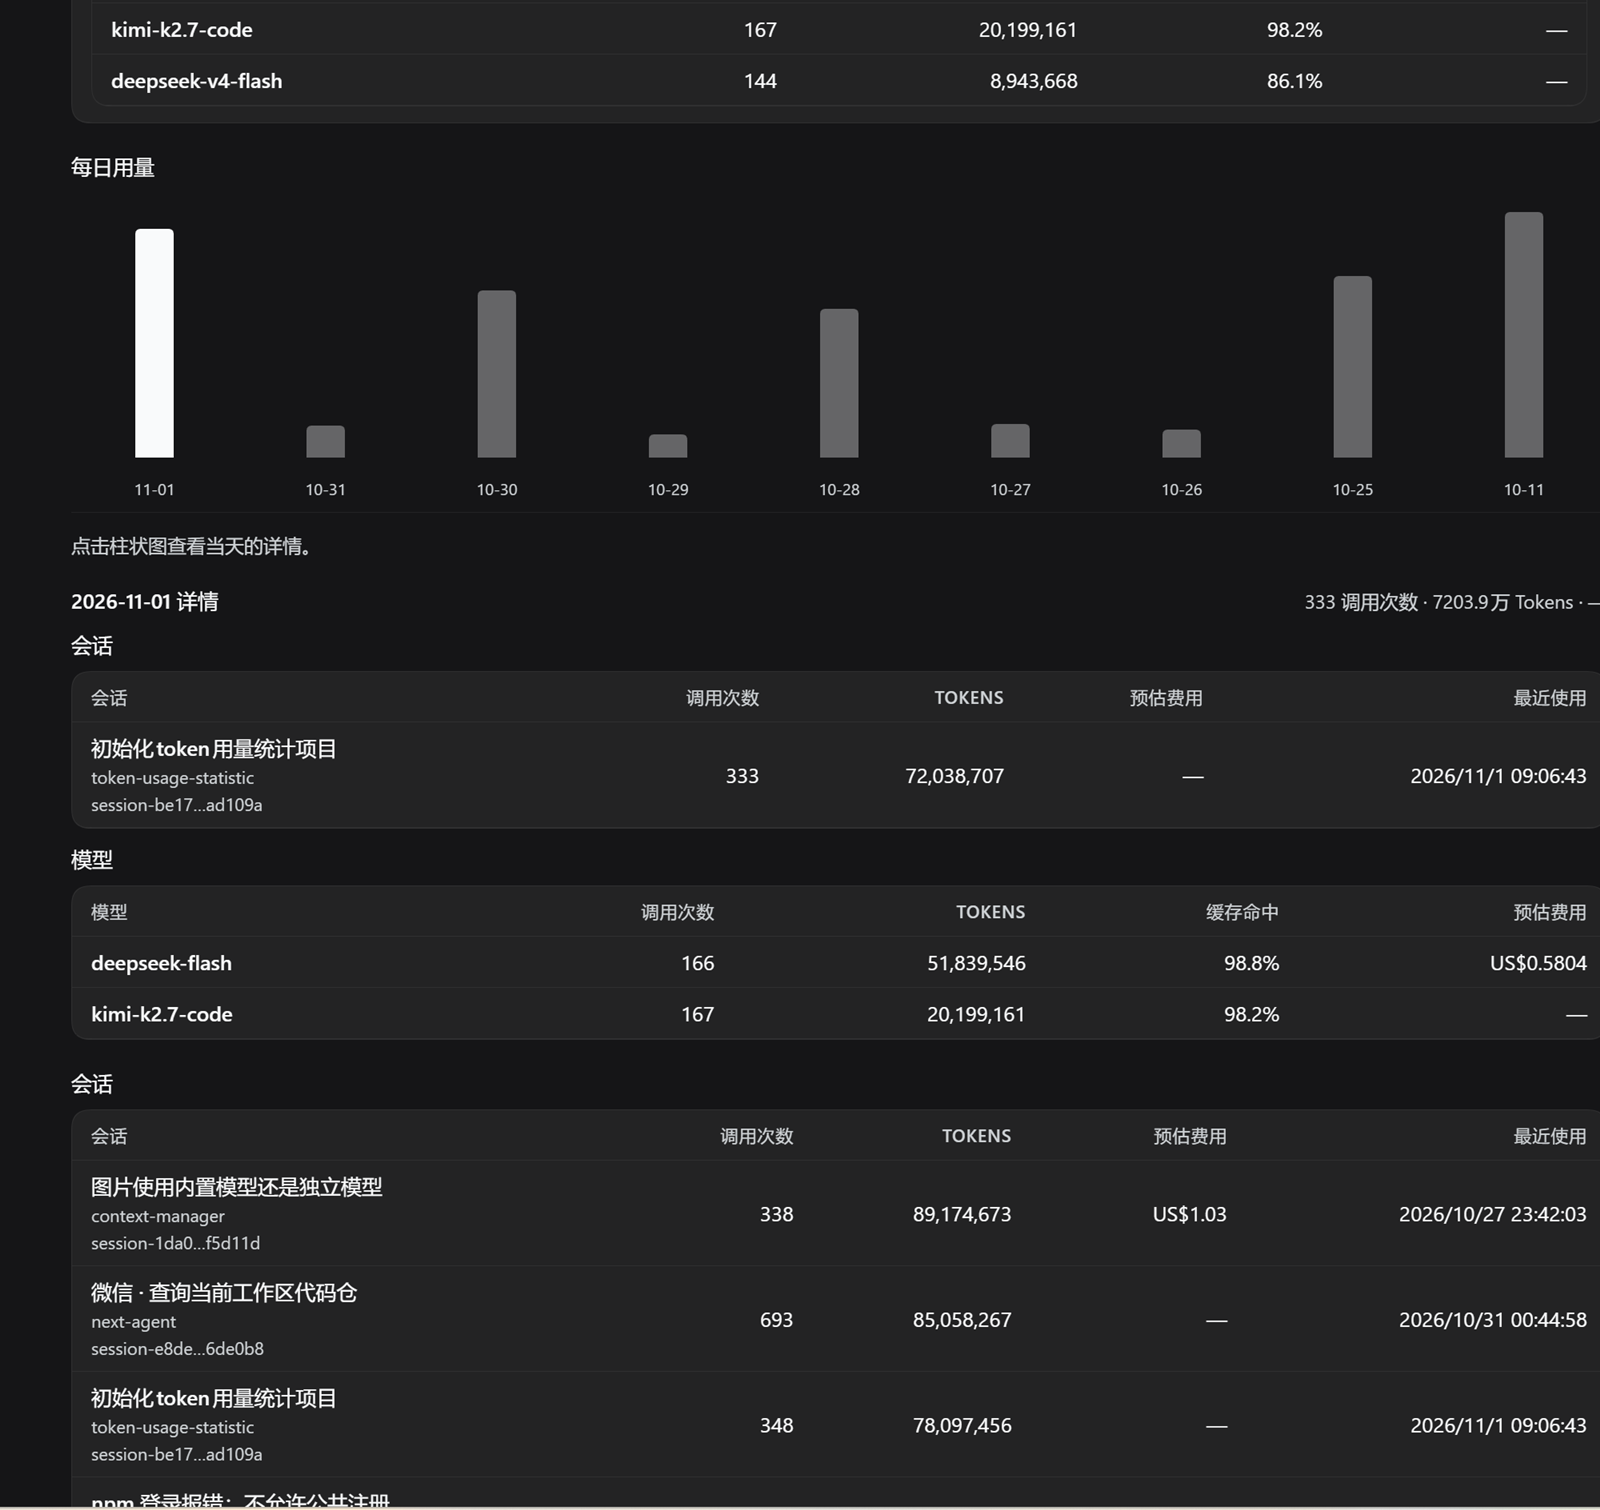
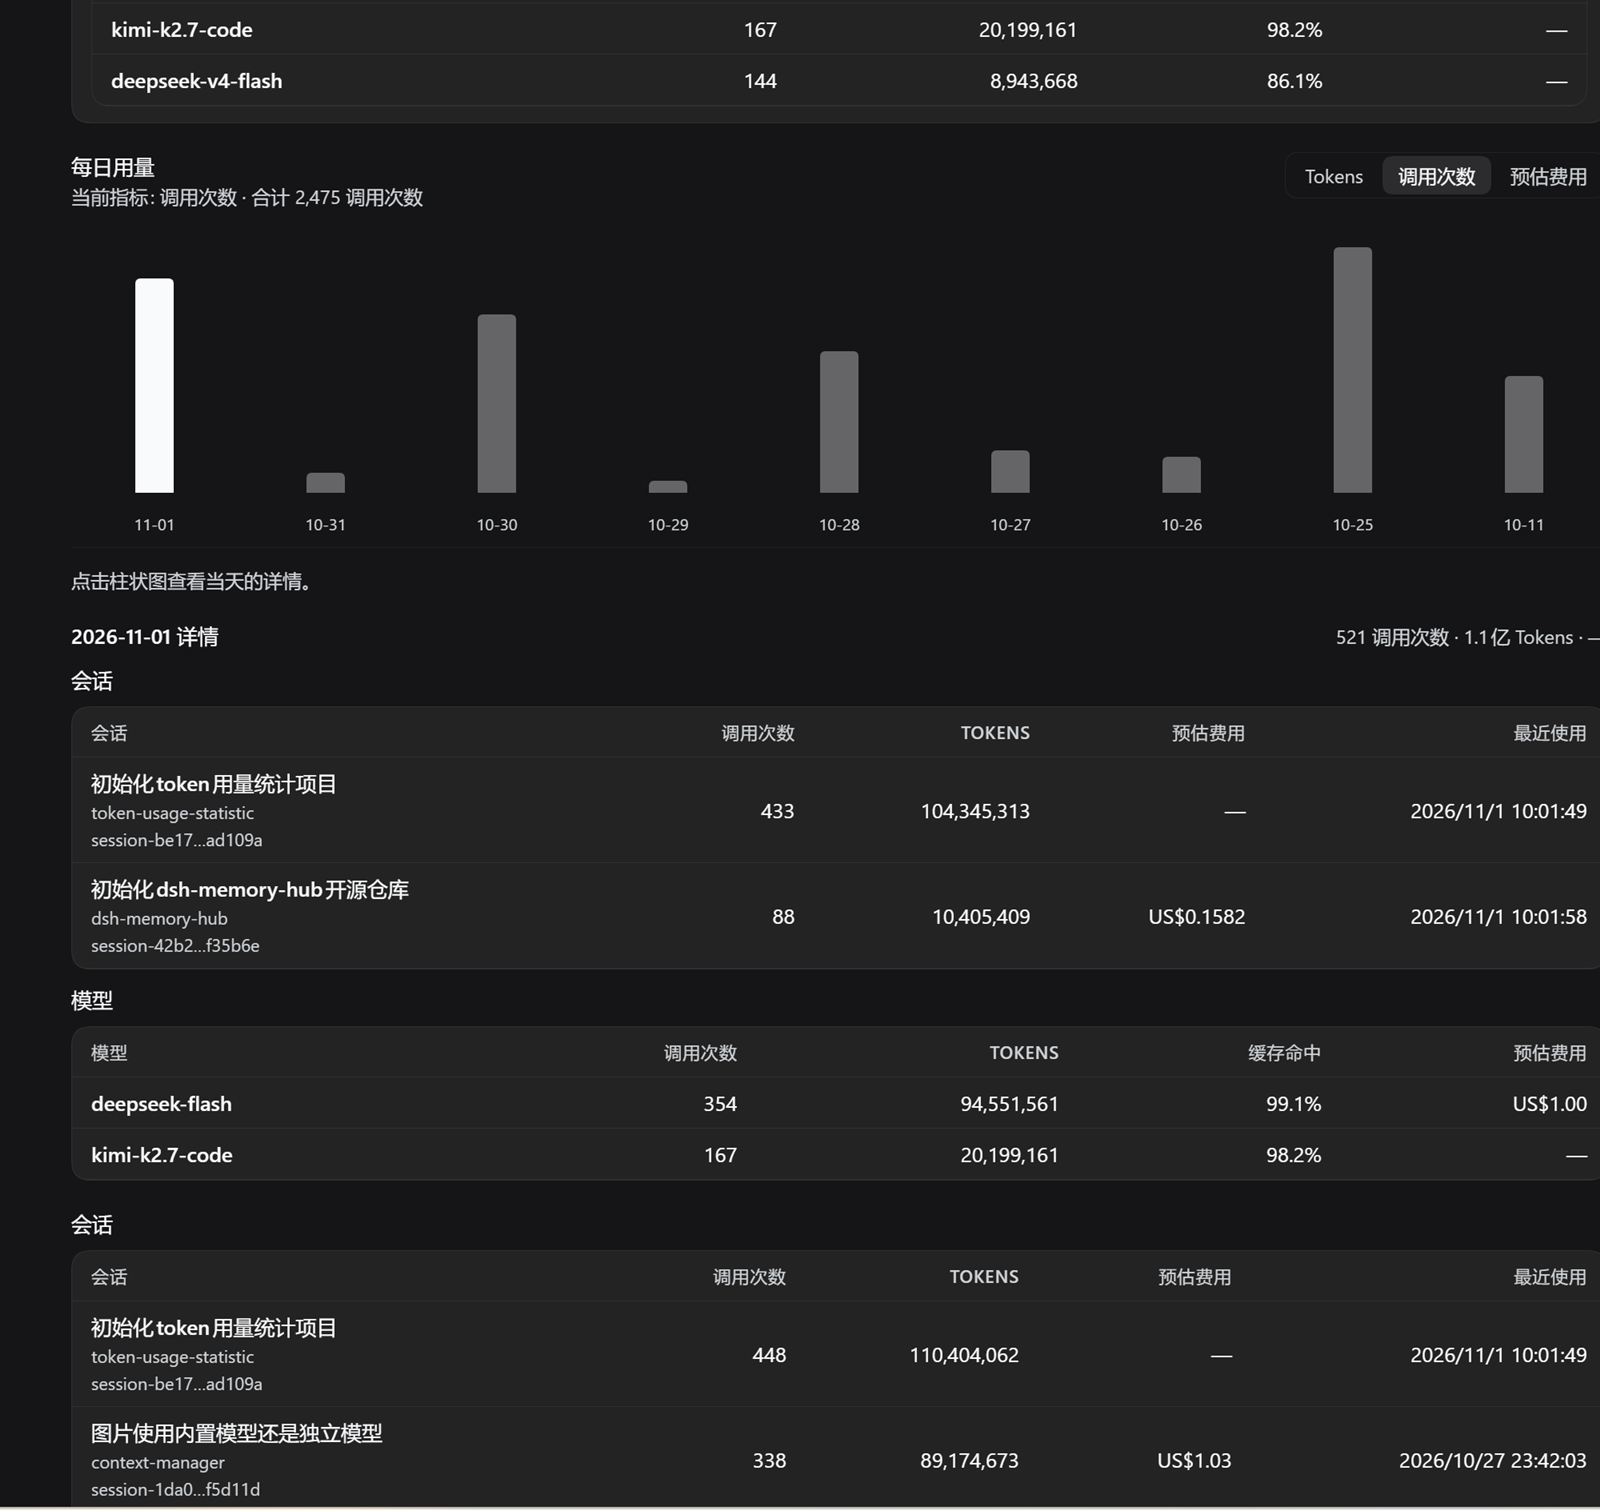
fix: move chart metric picker next to the chart and show metric total

diff --git a/client.js b/client.js
@@ -82,6 +82,7 @@
     chartMetricCalls: "Calls",
     chartMetricCost: "Cost",
     chartHint: "Click a bar to view the details for that day.",
+    chartCurrent: "Metric",
     chartEmpty: "No daily usage to chart yet.",
     dayDetailTitle: "Details for {{day}}",
     dayDetailSessions: "Sessions",
@@ -167,6 +168,7 @@
     chartMetricCalls: "\u8C03\u7528\u6B21\u6570",
     chartMetricCost: "\u9884\u4F30\u8D39\u7528",
     chartHint: "\u70B9\u51FB\u67F1\u72B6\u56FE\u67E5\u770B\u5F53\u5929\u7684\u8BE6\u60C5\u3002",
+    chartCurrent: "\u5F53\u524D\u6307\u6807",
     chartEmpty: "\u5C1A\u65E0\u6BCF\u65E5\u7528\u91CF\u6570\u636E\u3002",
     dayDetailTitle: "{{day}} \u8BE6\u60C5",
     dayDetailSessions: "\u4F1A\u8BDD",
@@ -584,6 +586,14 @@
       flexDirection: "column",
       gap: "12px"
     },
+    chartHead: {
+      display: "flex",
+      alignItems: "flex-start",
+      justifyContent: "space-between",
+      gap: "12px",
+      flexWrap: "wrap"
+    },
+    chartTitleGroup: { display: "flex", flexDirection: "column", gap: "2px" },
     chartPlot: {
       boxSizing: "border-box",
       width: "100%",
@@ -891,14 +901,45 @@
     return formatCompact(value);
   }
   function DailyChart(props) {
-    const { days, metric, selectedDay, onSelectDay, translate } = props;
+    const { days, metric, onMetricChange, selectedDay, onSelectDay, translate } = props;
     if (days.length === 0) {
       return h("div", { style: styles.empty }, [h("p", { key: "title", style: styles.emptyTitle }, translate("chartEmpty"))]);
     }
     const max = Math.max(...days.map((day) => chartValueOf(day, metric)));
+    const total = days.reduce((sum, day) => sum + chartValueOf(day, metric), 0);
+    const costCurrency = days.find((day) => day.cost.currency !== null)?.cost.currency ?? null;
+    const costComplete = days.every((day) => day.cost.amount !== null);
+    const totalText = metric === "cost" ? costComplete ? formatMoney(total, costCurrency) : translate("budgetIncomplete") : `${metric === "calls" ? formatInteger(total) : formatCompact(total)} ${translate(metric === "calls" ? "calls" : "tokens")}`;
     const plotHeight = 160;
     const labelStep = Math.max(1, Math.ceil(days.length / 10));
     return h("div", { style: styles.chart }, [
+      h("div", { key: "head", style: styles.chartHead }, [
+        h("div", { key: "titleGroup", style: styles.chartTitleGroup }, [
+          h("h2", { key: "title", style: styles.sectionTitle }, translate("chartTitle")),
+          h(
+            "p",
+            { key: "summary", style: styles.chartHint },
+            `${translate("chartCurrent")}: ${translate(METRIC_LABELS[metric])} \xB7 ${translate("total")} ${totalText}`
+          )
+        ]),
+        h(
+          "div",
+          { key: "metricPicker", style: styles.segmented, role: "group", "aria-label": translate("chartTitle") },
+          ["tokens", "calls", "cost"].map(
+            (candidate) => h(
+              "button",
+              {
+                key: candidate,
+                type: "button",
+                "aria-pressed": metric === candidate,
+                onClick: () => onMetricChange(candidate),
+                style: metric === candidate ? { ...styles.segment, ...styles.segmentActive } : styles.segment
+              },
+              translate(METRIC_LABELS[candidate])
+            )
+          )
+        )
+      ]),
       h(
         "div",
         { key: "plot", style: styles.chartPlot },
@@ -1253,23 +1294,6 @@
               )
             )
           ),
-          h(
-            "div",
-            { key: "metrics", style: styles.segmented, role: "group", "aria-label": translate("chartTitle") },
-            ["tokens", "calls", "cost"].map(
-              (metric) => h(
-                "button",
-                {
-                  key: metric,
-                  type: "button",
-                  "aria-pressed": chartMetric === metric,
-                  onClick: () => setChartMetric(metric),
-                  style: chartMetric === metric ? { ...styles.segment, ...styles.segmentActive } : styles.segment
-                },
-                translate(METRIC_LABELS[metric])
-              )
-            )
-          ),
           data === null ? null : h("span", { key: "updated", style: styles.cellMuted }, `${translate("updated")} ${formatClock(data.generatedAt)}`)
         )
       );
@@ -1340,11 +1364,11 @@
         );
         children.push(
           h("section", { key: "days", style: styles.section }, [
-            h("h2", { key: "title", style: styles.sectionTitle }, translate("chartTitle")),
             h(DailyChart, {
               key: "chart",
               days: dailyData?.days ?? [],
               metric: chartMetric,
+              onMetricChange: setChartMetric,
               selectedDay,
               onSelectDay: setSelectedDay,
               translate

diff --git a/src/client/panel.ts b/src/client/panel.ts
@@ -305,6 +305,14 @@ const styles: Record<string, Record<string, string | number>> = {
     flexDirection: 'column',
     gap: '12px',
   },
+  chartHead: {
+    display: 'flex',
+    alignItems: 'flex-start',
+    justifyContent: 'space-between',
+    gap: '12px',
+    flexWrap: 'wrap',
+  },
+  chartTitleGroup: { display: 'flex', flexDirection: 'column', gap: '2px' },
   chartPlot: {
     boxSizing: 'border-box',
     width: '100%',
@@ -676,18 +684,55 @@ function chartLabelOf(day: DayDetailView, metric: ChartMetric): string {
 function DailyChart(props: {
   days: DayDetailView[]
   metric: ChartMetric
+  onMetricChange: (metric: ChartMetric) => void
   selectedDay: string | null
   onSelectDay: (day: string) => void
   translate: Translate
 }) {
-  const { days, metric, selectedDay, onSelectDay, translate } = props
+  const { days, metric, onMetricChange, selectedDay, onSelectDay, translate } = props
   if (days.length === 0) {
     return h('div', { style: styles.empty }, [h('p', { key: 'title', style: styles.emptyTitle }, translate('chartEmpty'))])
   }
   const max = Math.max(...days.map((day) => chartValueOf(day, metric)))
+  const total = days.reduce((sum, day) => sum + chartValueOf(day, metric), 0)
+  const costCurrency = days.find((day) => day.cost.currency !== null)?.cost.currency ?? null
+  const costComplete = days.every((day) => day.cost.amount !== null)
+  const totalText =
+    metric === 'cost'
+      ? costComplete
+        ? formatMoney(total, costCurrency)
+        : translate('budgetIncomplete')
+      : `${metric === 'calls' ? formatInteger(total) : formatCompact(total)} ${translate(metric === 'calls' ? 'calls' : 'tokens')}`
   const plotHeight = 160
   const labelStep = Math.max(1, Math.ceil(days.length / 10))
   return h('div', { style: styles.chart }, [
+    h('div', { key: 'head', style: styles.chartHead }, [
+      h('div', { key: 'titleGroup', style: styles.chartTitleGroup }, [
+        h('h2', { key: 'title', style: styles.sectionTitle }, translate('chartTitle')),
+        h(
+          'p',
+          { key: 'summary', style: styles.chartHint },
+          `${translate('chartCurrent')}: ${translate(METRIC_LABELS[metric])} · ${translate('total')} ${totalText}`,
+        ),
+      ]),
+      h(
+        'div',
+        { key: 'metricPicker', style: styles.segmented, role: 'group', 'aria-label': translate('chartTitle') },
+        (['tokens', 'calls', 'cost'] as ChartMetric[]).map((candidate) =>
+          h(
+            'button',
+            {
+              key: candidate,
+              type: 'button',
+              'aria-pressed': metric === candidate,
+              onClick: () => onMetricChange(candidate),
+              style: metric === candidate ? { ...styles.segment, ...styles.segmentActive } : styles.segment,
+            },
+            translate(METRIC_LABELS[candidate]),
+          ),
+        ),
+      ),
+    ]),
     h(
       'div',
       { key: 'plot', style: styles.chartPlot },
@@ -1111,23 +1156,6 @@ export function Panel(props: { translate: Translate; locale: LocaleLike }) {
             ),
           ),
         ),
-        h(
-          'div',
-          { key: 'metrics', style: styles.segmented, role: 'group', 'aria-label': translate('chartTitle') },
-          (['tokens', 'calls', 'cost'] as ChartMetric[]).map((metric) =>
-            h(
-              'button',
-              {
-                key: metric,
-                type: 'button',
-                'aria-pressed': chartMetric === metric,
-                onClick: () => setChartMetric(metric),
-                style: chartMetric === metric ? { ...styles.segment, ...styles.segmentActive } : styles.segment,
-              },
-              translate(METRIC_LABELS[metric]),
-            ),
-          ),
-        ),
         data === null
           ? null
           : h('span', { key: 'updated', style: styles.cellMuted }, `${translate('updated')} ${formatClock(data.generatedAt)}`),
@@ -1203,11 +1231,11 @@ export function Panel(props: { translate: Translate; locale: LocaleLike }) {
       )
       children.push(
         h('section', { key: 'days', style: styles.section }, [
-          h('h2', { key: 'title', style: styles.sectionTitle }, translate('chartTitle')),
           h(DailyChart, {
             key: 'chart',
             days: dailyData?.days ?? [],
             metric: chartMetric,
+            onMetricChange: setChartMetric,
             selectedDay,
             onSelectDay: setSelectedDay,
             translate,

diff --git a/src/client/i18n.ts b/src/client/i18n.ts
@@ -90,6 +90,7 @@ const EN: Record<string, string> = {
   chartMetricCalls: 'Calls',
   chartMetricCost: 'Cost',
   chartHint: 'Click a bar to view the details for that day.',
+  chartCurrent: 'Metric',
   chartEmpty: 'No daily usage to chart yet.',
   dayDetailTitle: 'Details for {{day}}',
   dayDetailSessions: 'Sessions',
@@ -176,6 +177,7 @@ const ZH: Record<string, string> = {
   chartMetricCalls: '调用次数',
   chartMetricCost: '预估费用',
   chartHint: '点击柱状图查看当天的详情。',
+  chartCurrent: '当前指标',
   chartEmpty: '尚无每日用量数据。',
   dayDetailTitle: '{{day}} 详情',
   dayDetailSessions: '会话',

diff --git a/README.md b/README.md
@@ -2,7 +2,7 @@
 
 DeepSeek Harness（DSH）插件：统计**本机所有模型调用**的 token 用量与**按事件时间估算的费用**，提供历史回填、账户余额/订阅额度、日/月预算与无凭据导出，并在侧边栏面板中呈现。同时适配 DSH Desktop 与 DSH Web —— 两者加载同一份 Web 客户端包和同一套 Host 插件图，因此只有一份实现。
 
-`1.0.1` 是 1.0 系列的首个补丁：修复每日用量图表的日期标签被裁切的问题，并补充关键界面截图；功能与 `1.0.0` 一致。
+`1.0.2` 把每日图表的指标切换（Tokens / 调用次数 / 预估费用）移到图表标题旁，并增加“当前指标 · 合计”摘要，切换后能直接看到数值和柱状图变化；同时补齐了 Desktop / Web 的安装说明。
 
 ## 界面预览
 
